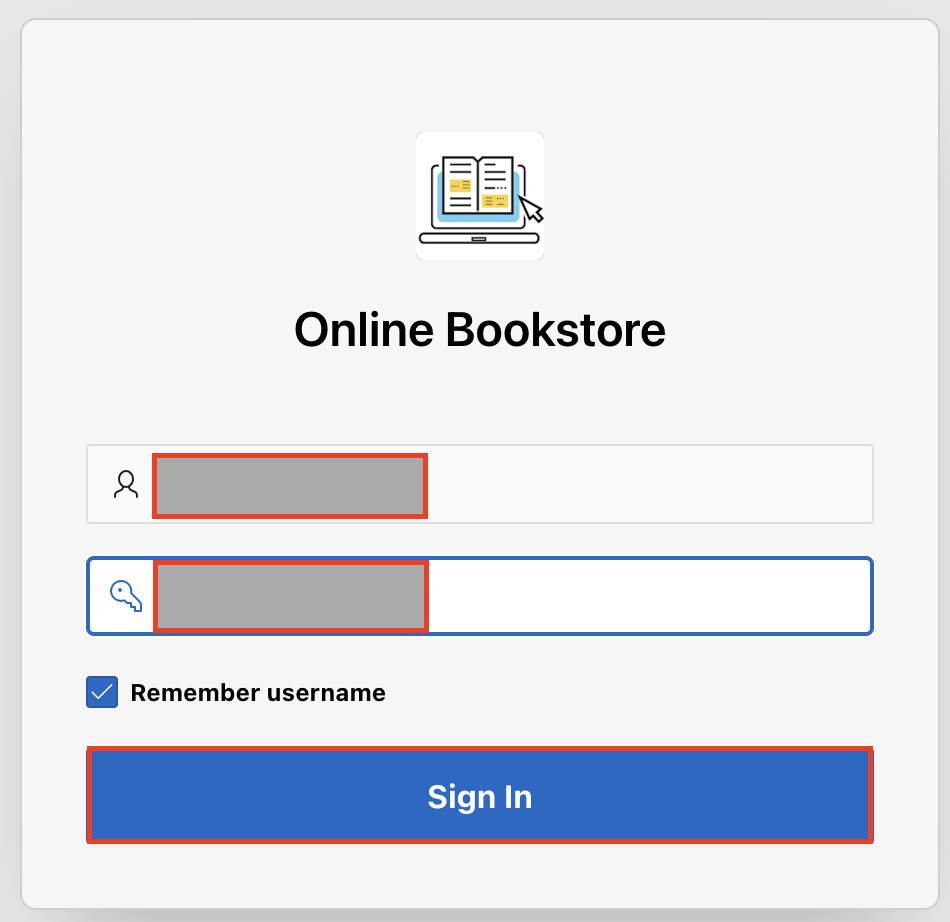
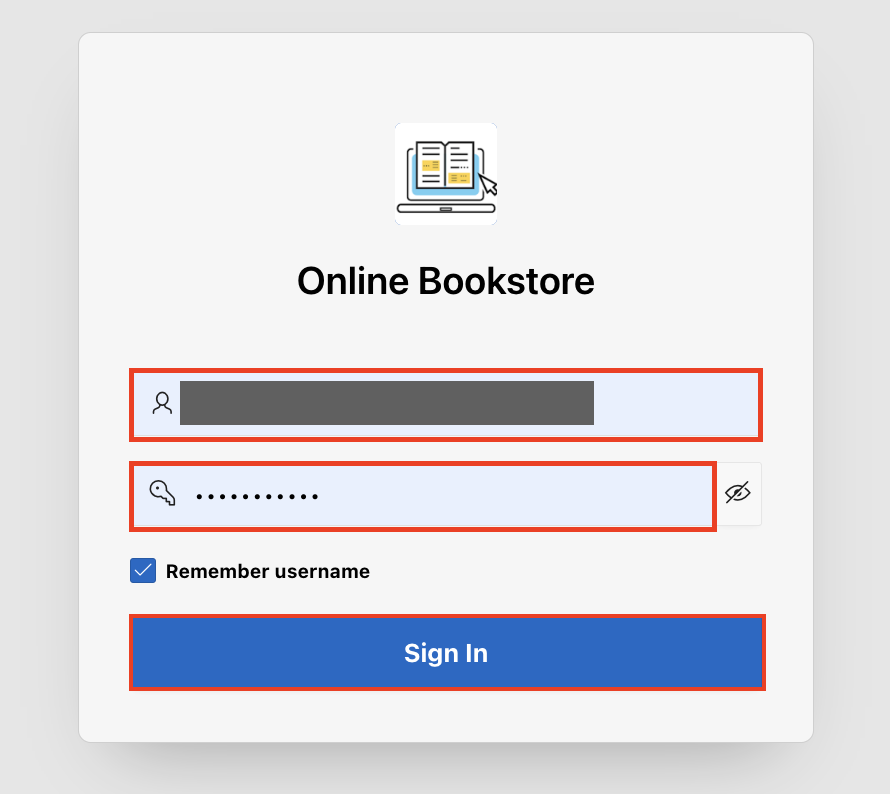
OBS 24.2 - UI results added after each task till Lab 6

Changed region(s): [[0.0607, 0.1814, 0.9404, 0.9975], [0.3034, 0.3325, 0.6978, 0.3929], [0.4247, 0.1511, 0.5764, 0.272]]

diff --git a/online-book-store-app/6-add-to-cart/add-to-cart.md b/online-book-store-app/6-add-to-cart/add-to-cart.md
@@ -777,6 +777,32 @@ In this task, you create a navigation bar entry that displays a shopping cart ic
 
     ![close dialog](images/save2.png " ")
 
+## Task 8: Run the Application
+
+1. Run the application and enter the credentials below:
+
+      - Username: **user01**
+
+      - Password: **secretPassword**
+
+    ![close dialog](images/6-8-1.png " ")
+
+2. Click on any book, select the **Quantity**, and click **Add To Cart**.
+
+    ![close dialog](images/6-8-2.1.png " ")
+
+    ![close dialog](images/6-8-2.2.png " ")
+
+3. Observe the total item number on the shopping cart entry in the navigation bar.
+
+    ![close dialog](images/6-8-3.png " ")
+
+4. To remove a book from the cart, click on the book and then click **Remove From Cart**.
+
+    ![close dialog](images/6-8-4.1.png " ")
+
+    ![close dialog](images/6-8-4.2.png " ")
+
 ## Summary
 
 In this lab, you have learned how to enhance the Book Details page by creating a package to manage shopping cart functionalities, defining application items to store session state information, implementing application processes to run PL/SQL code at specific points, and setting up computations to determine user-related information. These steps enable the addition and removal of books to/from a shopping cart, updating the cart's item count, and ensuring the interface dynamically reflects the current state of the cart. You are now ready to move on to the next lab!

diff --git a/online-book-store-app/1-create-app/create-app.md b/online-book-store-app/1-create-app/create-app.md
@@ -56,14 +56,16 @@ In this lab, you create a simple application with one click called **Online Book
     After making all changes, click **Save Icon**.
 
     ![Create Application wizard](./images/upload-icon.png " ")
+
     ![Create Application wizard](./images/edit-icon.png " ")
-
-
 
 8. To view the application, click **Run** and enter your workspace credentials to log in.
 
      ![Create Application wizard](./images/run-app.png " ")
+
      ![Create Application wizard](./images/login-app.png " ")
+
+     ![Create Application wizard](./images/home-page.png " ")
 
 ## Task 2: Load Quick SQL
 
@@ -147,6 +149,14 @@ In this lab, you create a simple application with one click called **Online Book
 5. We can see that 11 statements were run successfully.
 
    ![Create Application wizard](./images/results.png " ")
+
+6. Navigate to the **Object Browser** via the **SQL Workshop** dropdown to view all tables.
+
+   ![Create Application wizard](./images/1-2-6.png " ")
+
+7. Expand **Tables** and select any table to view its columns and other details.
+
+  ![Create Application wizard](./images/1-2-7.png " ")
 
 ## Summary
 

diff --git a/online-book-store-app/11-admin-page/11-admin-page.md b/online-book-store-app/11-admin-page/11-admin-page.md
@@ -4,7 +4,7 @@
 
 In this lab, you will create an administration page with specific settings, including a list to manage books and user roles. Next, you will add an entry to the navigation bar, linking to the administration page for quick access. Following this, you will modify authorization schemes to ensure that only authorized users can access the administration page. You will then set up a page for managing book information, including search functionality and detailed views. Additionally, you will create a form for editing book details, allowing for comprehensive updates. The lab also involves developing an interactive report for user roles and a form for updating user information. Lastly, you will enhance the user role update form to hide unnecessary fields and streamline the update process. These tasks collectively enable efficient application data administration and management, improving functionality and security.
 
-Estimated Time: 20 minutes
+Estimated Time: 34 minutes
 
 ### Objectives
 

diff --git a/online-book-store-app/5-authentication/authentication.md b/online-book-store-app/5-authentication/authentication.md
@@ -255,13 +255,19 @@ In this task, you will learn to create custom authentication.
 
    ![App builder home page](images/make-current.png " ")
 
-10. Run the application using the below credentials.
-    - Username: **user01**
-    - Password: **secretPassword**
+10. Run the application and enter the credentials below:
+
+      - Username: **user01**
+
+      - Password: **secretPassword**
 
    ![App builder home page](images/run-app1.png " ")
+
    ![App builder home page](images/enter-login-cred.png " ")
 
+11. Click the **View Password icon** to verify the password, then click **Sign In**.
+
+   ![App builder home page](images/5-3-11.png " ")
 
 ## Summary
 

diff --git a/online-book-store-app/2-rest-data/2-rest-data-source.md b/online-book-store-app/2-rest-data/2-rest-data-source.md
@@ -103,6 +103,10 @@ In this lab, you will:
 
     ![App builder home page](images/click-replace.png " ")
 
+4. Navigate to the **Object Browser**. Expand **Tables**, select **OBS\_BOOKS**, click on **Data**, and observe the book data in this table.
+
+    ![App builder home page](images/2-2-4.png " ")
+
 ## Task 3: Create a Faceted Search Page
 
 In this task, you create Faceted Search page which will display list of the books with their titles and authors.

diff --git a/online-book-store-app/4-application-theme/application-theme.md b/online-book-store-app/4-application-theme/application-theme.md
@@ -38,7 +38,11 @@ In this lab, you will:
 
    ![App builder home page](images/save-as-roller.png " ")
 
+5. Click on the **X** of the **Theme Roller** and observe the theme.
+
    ![App builder home page](images/success-theme.png " ")
+
+   ![App builder home page](images/4-1-4.3.png " ")
 
 ## Summary
 
